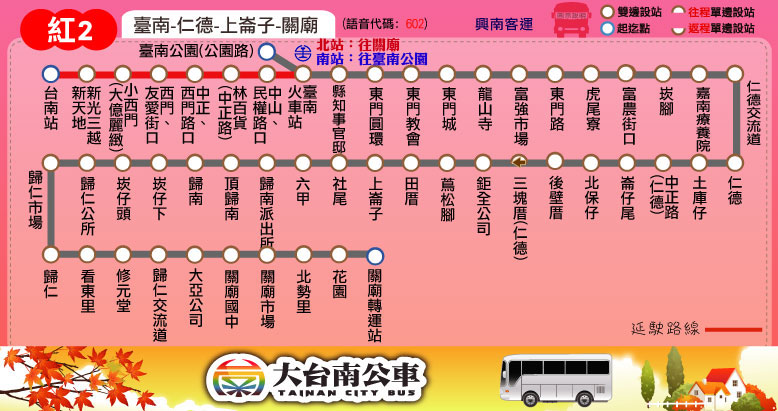
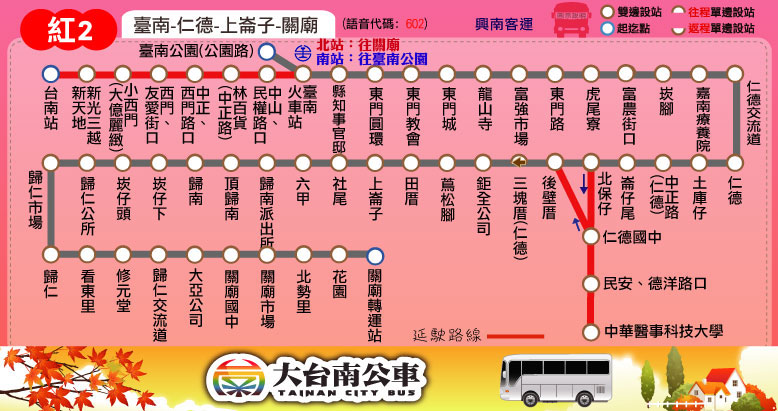
更新時刻表：7210、黃20、橘3、紅1、紅2(台南站07:10發車班次繞駛「中華醫事科技大學」)

Changed region(s): [[0.6787, 0.3504, 0.9871, 0.8467], [0.5244, 0.7883, 0.7095, 0.8467]]

diff --git a/route/fare_and_time/red_2.js b/route/fare_and_time/red_2.js
@@ -3,7 +3,7 @@ red_2_interval_stop = [
 ["臺南站","新光三越新天地","小西門(大億麗緻)","西門、友愛街口","中正、西門路口","林百貨(中正路)","中山、民權路口",
 "臺南公園(公園路)","臺南火車站","縣知事官邸","東門圓環","東門教會","東門城","龍山寺","富強市場","東門路","虎尾寮","富農街口"], // 臺南
 ["崁腳","嘉南療養院","仁德交流道","仁德","土庫仔","中正路(仁德)"], // 仁德
-["崙仔尾","北保仔","後壁厝","三塊厝(仁德)","鉅全公司","蔦松腳","田厝"], // 後壁厝
+["崙仔尾","北保仔","仁德國中","民安、德洋路口","中華醫事科技大學","後壁厝","三塊厝(仁德)","鉅全公司","蔦松腳","田厝"], // 後壁厝
 ["上崙子"], // 上崙子
 ["社尾","六甲"], // 六甲
 ["歸南派出所","頂歸南","歸南","崁仔下","崁仔頭","歸仁公所","歸仁市場","歸仁","看東里","修元堂","歸仁交流道"], // 歸仁
@@ -28,5 +28,5 @@ red_2_main_stop_time_consume = [0, 10, 15, 32, 43, 54, 60, 65];
 red_2_important_stop = [0, 2, 5, 7]; // 臺南站, 臺南火車站, 歸仁公所, 關廟轉運站
 var start_stop = 1; // 臺南公園
 var end_stop = 7;
-red_2_time_go = [["07:10",[start_stop]],["09:25",start_stop,end_stop],["12:25",start_stop,end_stop],["17:40",start_stop,end_stop],["21:25",start_stop,end_stop]];
+red_2_time_go = [["07:10",['繞',start_stop]],["09:25",start_stop,end_stop],["12:25",start_stop,end_stop],["17:40",start_stop,end_stop],["21:25",start_stop,end_stop]];
 red_2_time_return = [["06:00",[start_stop]],["08:15",end_stop,start_stop],["13:45",end_stop,start_stop],["17:30",end_stop,start_stop],["19:00",end_stop,start_stop]];

diff --git a/route/fare_and_time/red_1.js b/route/fare_and_time/red_1.js
@@ -25,5 +25,5 @@ red_1_fare = [
 red_1_main_stop_name = ["臺南公園<br />(公園路)","臺南<br />火車站","太子廟","大人廟","媽祖廟","歸仁公所","關廟國中","關廟<br />轉運站"];
 red_1_main_stop_time_consume = [0, 5, 25, 30, 35, 40, 50, 55];
 red_1_important_stop = [0, 1, 5, 7]; // 臺南公園, 臺南火車站, 歸仁公所, 關廟轉運站
-red_1_time_go = [["06:25"],["07:00"],["13:10"],["18:00"],["21:45"]];
+red_1_time_go = [["06:25"],["07:00"],["13:10"],["18:20"],["21:45"]];
 red_1_time_return = [["06:10"],["10:00"],["12:05"],["15:00"],["17:00"]];

diff --git a/red/red_2.html b/red/red_2.html
@@ -20,7 +20,7 @@
 	block_route_map(null);
 	block_route_info(route_interval,'興南客運','','里程計費','http://www.2384.com.tw/ebus/jsp/ajaxBus.jsp?pathId=1602&locale=zh_TW');
 	block_fare(0, null);
-	block_time_schedule('臺南公園(公園路)/臺南站','關廟','');
+	block_time_schedule('臺南公園(公園路)/臺南站','關廟','「<span style="color: blue;">繞</span>」表示繞駛「中華醫事科技大學」');
 	block_transfer(transfer_tainan_railway_station + transfer_guanmiao);
 	block_copyright();
 </script>

diff --git a/route/fare_and_time/orange_3.js b/route/fare_and_time/orange_3.js
@@ -43,6 +43,6 @@ orange_3_time_go = [
 ];
 orange_3_time_return = [
 ["06:30",end_stop,start_stop,[stop_1]],["07:30",[end_stop,[stop_1,5]]],["09:55",end_stop,start_stop,[stop_1]],
-["13:00",end_stop,start_stop,[stop_1]],["15:30",end_stop,start_stop,[stop_1]],["17:45",end_stop,start_stop,[stop_1]],
+["13:00",end_stop,start_stop,[stop_1]],["15:30",end_stop,start_stop,[stop_1]],["18:10",end_stop,start_stop,[stop_1]],
 ["17:40",[end_stop,[stop_1,5]]],["21:20",[end_stop,[stop_1,5]]]
 ];

diff --git a/route/fare_and_time/yellow_20.js b/route/fare_and_time/yellow_20.js
@@ -22,4 +22,4 @@ yellow_20_main_stop_name = ["麻豆<br />轉運站","一商前","下營<br />公
 yellow_20_main_stop_time_consume = [0, 8, 25, 30, 45];
 yellow_20_important_stop = [0, 2, 4]; // 麻豆轉運站, 下營公所, 林鳳營火車站
 yellow_20_time_go = [["09:00"],["10:50"],["12:50"],["14:50"],["16:50"]];
-yellow_20_time_return = [["09:45"],["11:35"],["13:35"],["15:35"],["17:35"]];
+yellow_20_time_return = [["09:45"],["11:35"],["13:35"],["15:35"],["17:45"]];
